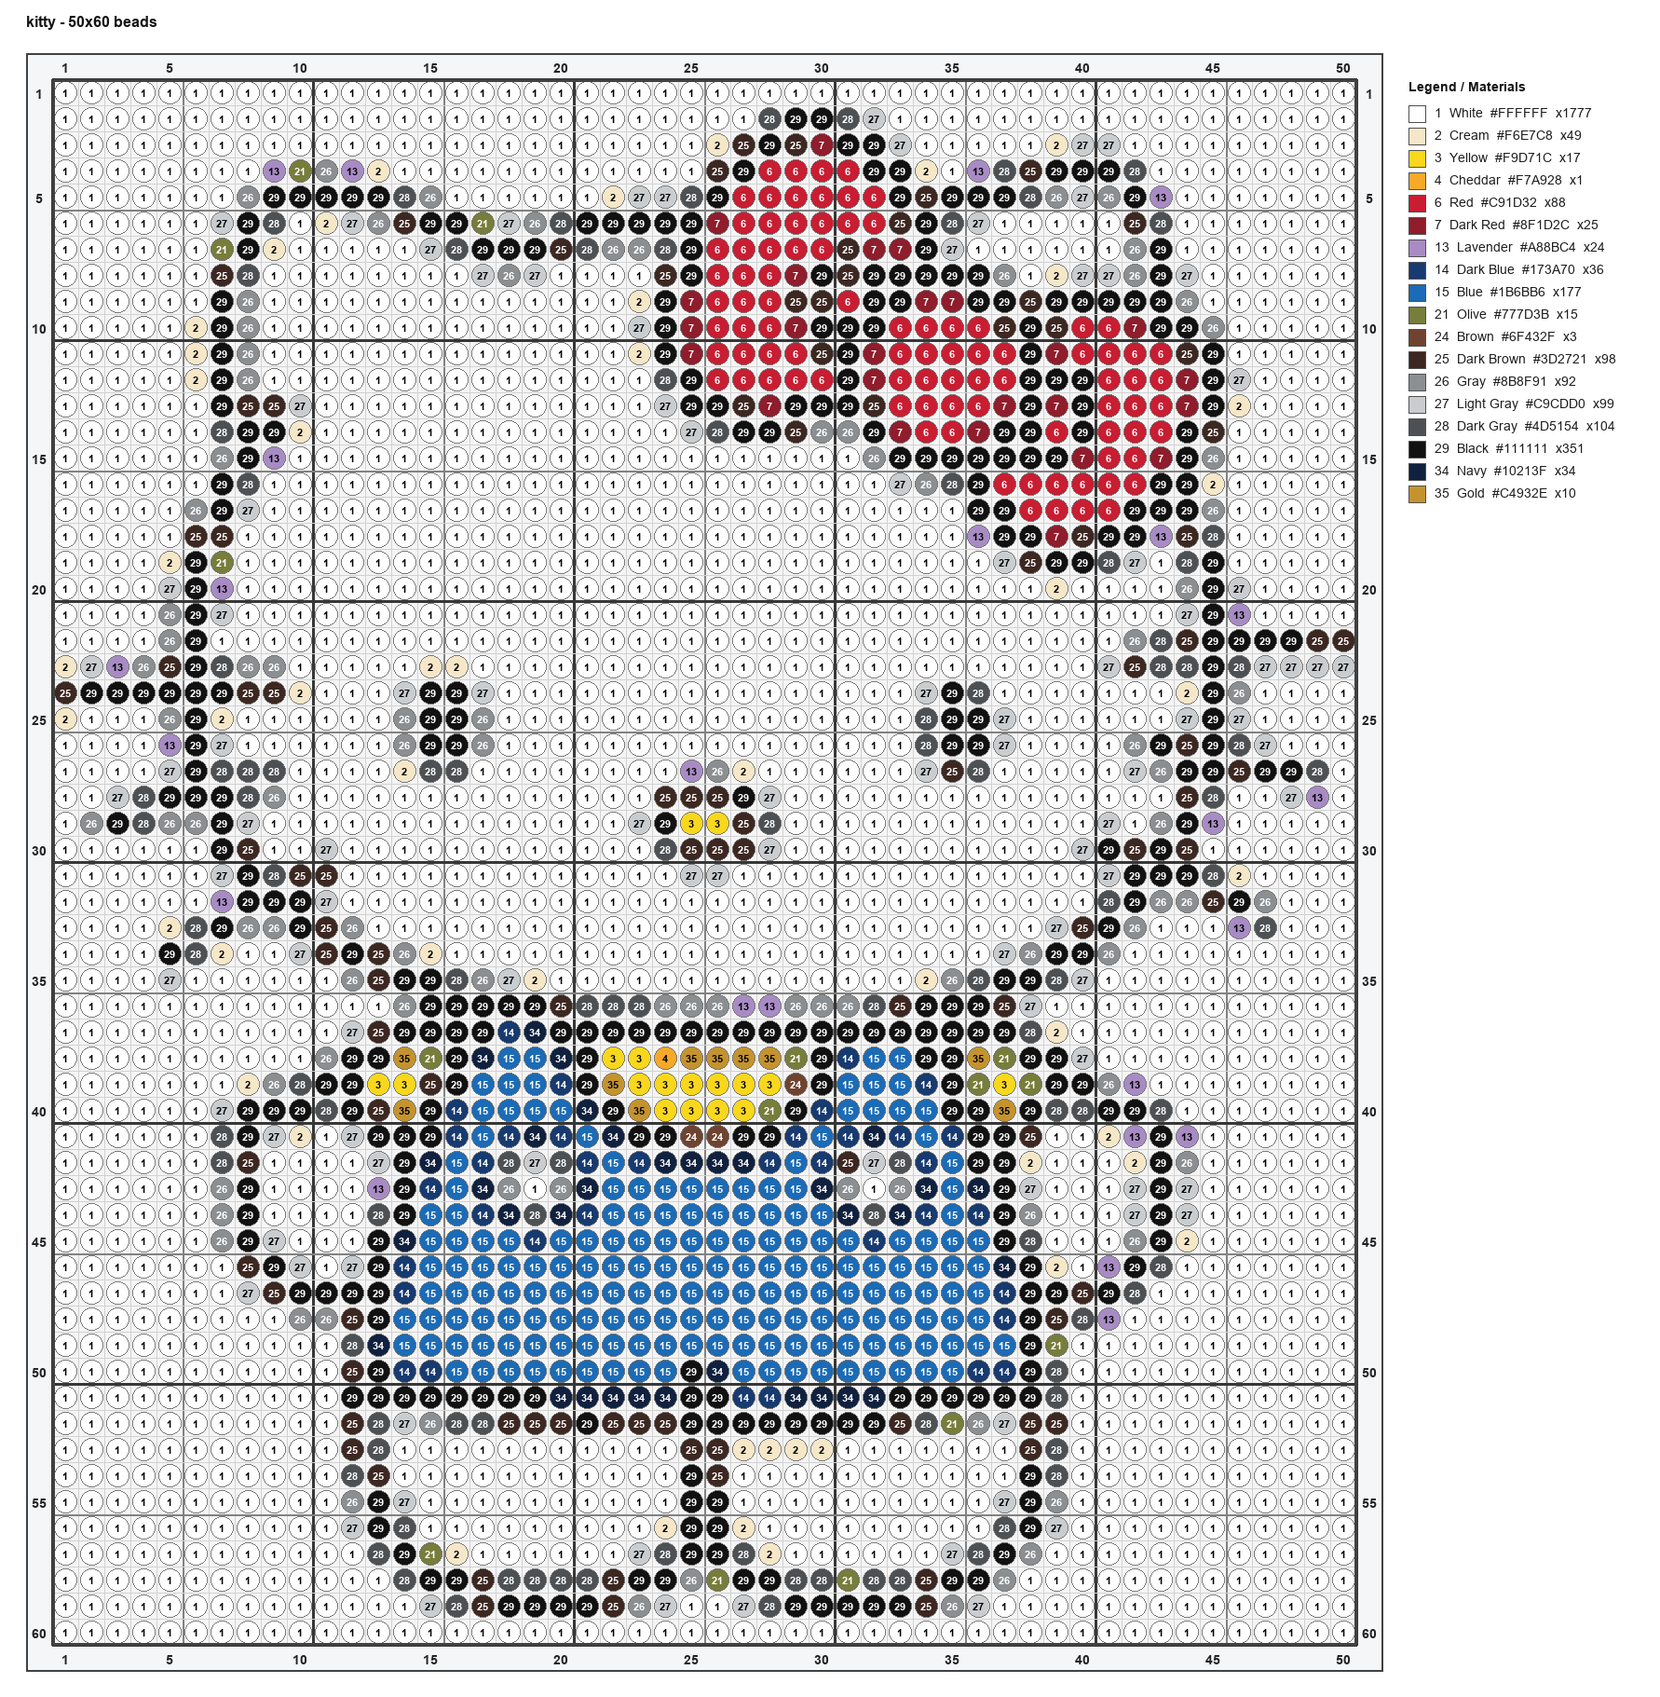
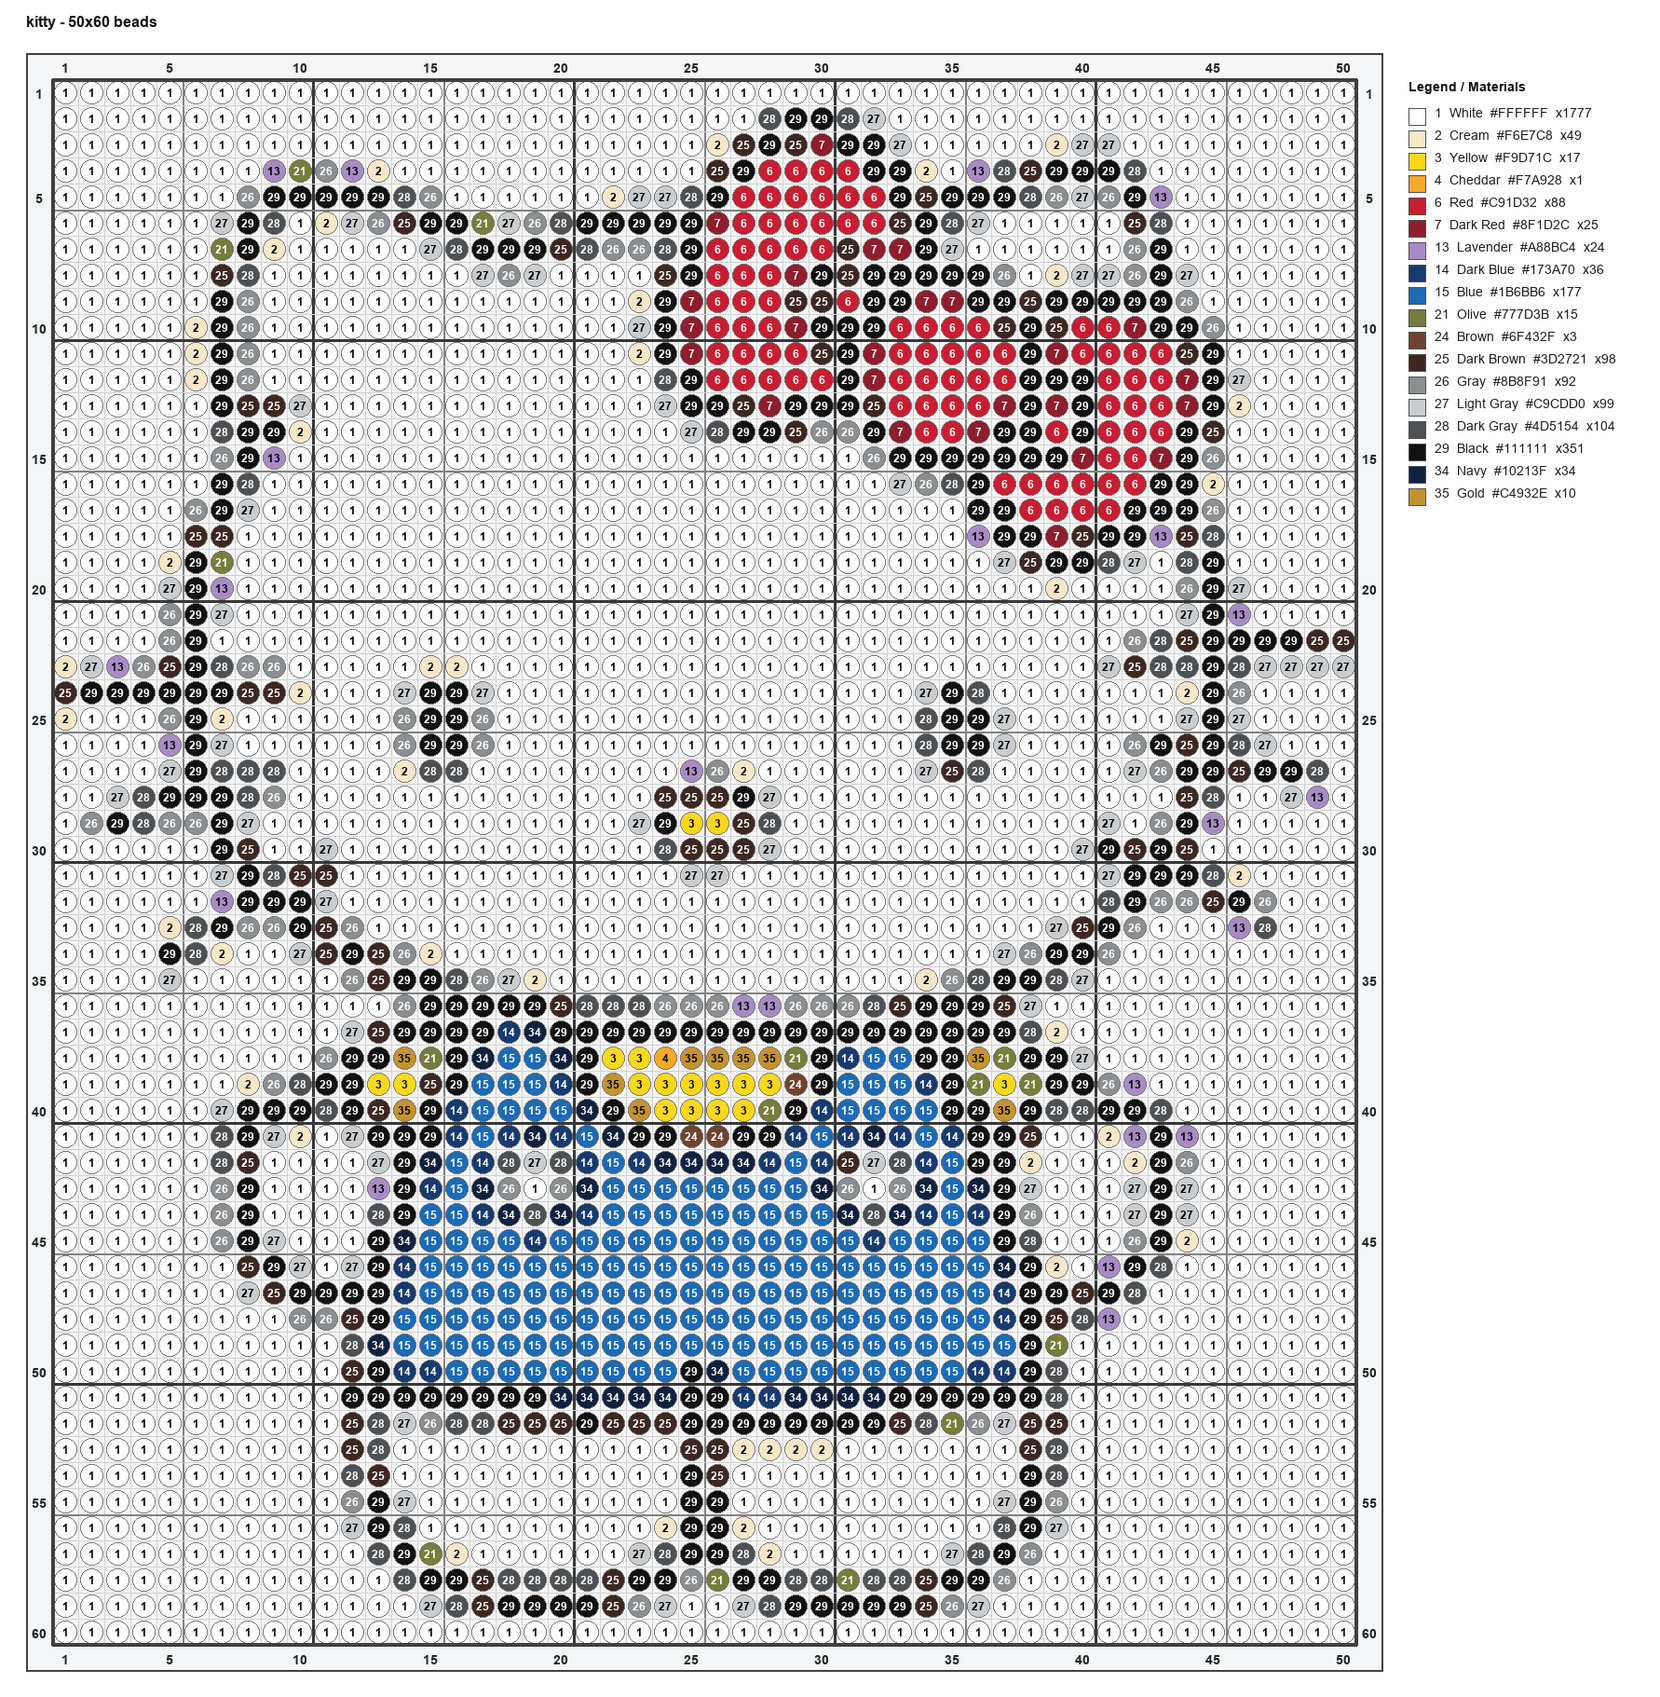
Add full Perler palette and legend controls

Changed region(s): [[0.8333, 0.2153, 0.8642, 0.2768], [0.8333, 0.123, 0.8642, 0.1845]]

diff --git a/perler_pattern.py b/perler_pattern.py
@@ -42,7 +42,7 @@ def rgb_to_hex(rgb: tuple[int, int, int]) -> str:
     return "#{:02X}{:02X}{:02X}".format(*rgb)
 
 
-def load_palette(path: Path, limit: int | None = None) -> list[PaletteColor]:
+def load_palette(path: Path) -> list[PaletteColor]:
     if not path.exists():
         raise FileNotFoundError(f"Palette file not found: {path}")
 
@@ -74,10 +74,6 @@ def load_palette(path: Path, limit: int | None = None) -> list[PaletteColor]:
 
     if not palette:
         raise ValueError(f"Palette is empty: {path}")
-    if limit is not None:
-        if limit <= 0:
-            raise ValueError("--max-colors must be greater than zero")
-        palette = palette[:limit]
     return palette
 
 
@@ -153,6 +149,14 @@ def nearest_palette_color(
     return min(palette, key=lambda color: color_distance(rgb, color.rgb))
 
 
+def limit_palette(palette: list[PaletteColor], limit: int | None) -> list[PaletteColor]:
+    if limit is None:
+        return palette
+    if limit <= 0:
+        raise ValueError("--max-colors must be greater than zero")
+    return palette[:limit]
+
+
 def resolve_empty_color_codes(
     values: list[str],
     palette: list[PaletteColor],
@@ -194,6 +198,7 @@ def pixel_to_rgb(pixel: tuple[int, ...], background: tuple[int, int, int]) -> tu
 def quantize_to_palette(
     image: Image.Image,
     palette: list[PaletteColor],
+    empty_match_palette: list[PaletteColor],
     background: tuple[int, int, int],
     transparent_alpha: int,
     allow_empty_transparent: bool,
@@ -213,10 +218,11 @@ def quantize_to_palette(
                 row.append(TRANSPARENT_CODE)
                 continue
             rgb = pixel_to_rgb(pixel, background)
-            color = nearest_palette_color(rgb, palette)
-            if color.code in empty_codes:
+            empty_match = nearest_palette_color(rgb, empty_match_palette)
+            if empty_match.code in empty_codes:
                 row.append(TRANSPARENT_CODE)
                 continue
+            color = nearest_palette_color(rgb, palette)
             row.append(color.code)
             counts[color.code] += 1
             used[color.code] = color
@@ -225,12 +231,54 @@ def quantize_to_palette(
     return matrix, used, counts
 
 
+def select_best_palette(
+    image: Image.Image,
+    palette: list[PaletteColor],
+    background: tuple[int, int, int],
+    transparent_alpha: int,
+    allow_empty_transparent: bool,
+    empty_codes: set[str],
+    limit: int | None,
+) -> list[PaletteColor]:
+    if limit is None:
+        return palette
+    if limit <= 0:
+        raise ValueError("--best-colors must be greater than zero")
+    if limit >= len(palette):
+        return palette
+
+    width, height = image.size
+    pixels = image.load()
+    counts: Counter[str] = Counter()
+    by_code = {color.code: color for color in palette}
+    for y in range(height):
+        for x in range(width):
+            pixel = pixels[x, y]
+            if allow_empty_transparent and len(pixel) == 4 and pixel[3] < transparent_alpha:
+                continue
+            rgb = pixel_to_rgb(pixel, background)
+            color = nearest_palette_color(rgb, palette)
+            if color.code in empty_codes:
+                continue
+            counts[color.code] += 1
+
+    if not counts:
+        return palette[:limit]
+    selected_codes = [code for code, _ in counts.most_common(limit)]
+    return [by_code[code] for code in selected_codes]
+
+
 def contrasting_text_color(rgb: tuple[int, int, int]) -> tuple[int, int, int]:
     luminance = (0.299 * rgb[0]) + (0.587 * rgb[1]) + (0.114 * rgb[2])
     return (0, 0, 0) if luminance > 150 else (255, 255, 255)
 
 
-def load_font(size: int, bold: bool = False) -> ImageFont.ImageFont:
+def load_font(size: int, bold: bool = False, font_path: Path | None = None) -> ImageFont.ImageFont:
+    if font_path is not None:
+        try:
+            return ImageFont.truetype(str(font_path), size)
+        except OSError:
+            pass
     candidates = [
         "/System/Library/Fonts/Supplemental/Arial Bold.ttf" if bold else "/System/Library/Fonts/Supplemental/Arial.ttf",
         "/Library/Fonts/Arial Bold.ttf" if bold else "/Library/Fonts/Arial.ttf",
@@ -298,18 +346,19 @@ def render_pattern(
     bead_shape: str,
     major_grid: int,
     super_grid: int,
+    legend_font_size: int,
+    legend_font_path: Path | None,
 ) -> None:
     rows = len(matrix)
     cols = len(matrix[0])
     margin = max(18, cell_size)
-    legend_width = 0
-    if show_legend:
-        legend_width = max(270, cell_size * 7)
 
-    code_font = load_font(max(8, min(cell_size - 4, int(cell_size * 0.42))), bold=True)
+    max_code_len = max((len(code) for code in used), default=1)
+    code_scale = 0.46 if max_code_len <= 2 else 0.34 if max_code_len <= 4 else 0.28
+    code_font = load_font(max(6, min(cell_size - 4, int(cell_size * code_scale))), bold=True)
     title_font = load_font(max(16, int(cell_size * 0.55)), bold=True)
-    legend_font = load_font(14)
-    legend_bold = load_font(14, bold=True)
+    legend_font = load_font(legend_font_size, font_path=legend_font_path)
+    legend_bold = load_font(legend_font_size, bold=True, font_path=legend_font_path)
     coord_font = load_font(max(9, min(16, int(cell_size * 0.5))), bold=True)
 
     scratch = Image.new("RGB", (1, 1), "white")
@@ -327,9 +376,21 @@ def render_pattern(
     grid_top = frame_top + coord_band
     frame_width = grid_width + (coord_band * 2)
     frame_height = grid_height + (coord_band * 2)
-    legend_header_height = 28 if show_legend else 0
-    legend_row_height = 24
-    legend_height = legend_header_height + (len(counts) * legend_row_height)
+    legend_swatch_size = max(18, legend_font_size + 4)
+    legend_row_height = max(24, legend_swatch_size + 6)
+    legend_title = "Legend / Materials"
+    legend_labels = []
+    for code, count in sorted(counts.items(), key=lambda item: natural_sort_key(item[0])):
+        color = used[code]
+        legend_labels.append((color, f"{code}  {color.name}  {color.hex}  x{count}"))
+    legend_header_height = legend_row_height + 4 if show_legend else 0
+    legend_height = legend_header_height + (len(legend_labels) * legend_row_height)
+    legend_width = 0
+    if show_legend:
+        legend_text_width = text_size(scratch_draw, legend_title, legend_bold)[0]
+        for _, label in legend_labels:
+            legend_text_width = max(legend_text_width, text_size(scratch_draw, label, legend_font)[0] + legend_swatch_size + 12)
+        legend_width = max(270, cell_size * 7, legend_text_width + 12)
     image_width = frame_width + (margin * 2) + legend_width
     image_height = max(frame_height, legend_height) + (margin * 2) + title_area
     output = Image.new("RGB", (image_width, image_height), "white")
@@ -446,14 +507,17 @@ def render_pattern(
     if show_legend:
         legend_left = frame_left + frame_width + margin
         y = grid_top
-        draw.text((legend_left, y), "Legend / Materials", fill=(20, 20, 20), font=legend_bold)
-        y += 28
-        for code, count in sorted(counts.items(), key=lambda item: natural_sort_key(item[0])):
-            color = used[code]
-            draw.rectangle((legend_left, y, legend_left + 18, y + 18), fill=color.rgb, outline=(80, 80, 80))
-            label = f"{code}  {color.name}  {color.hex}  x{count}"
-            draw.text((legend_left + 28, y), label, fill=(30, 30, 30), font=legend_font)
-            y += 24
+        draw.text((legend_left, y), legend_title, fill=(20, 20, 20), font=legend_bold)
+        y += legend_header_height
+        for color, label in legend_labels:
+            swatch_top = y + max(0, (legend_row_height - legend_swatch_size) // 2)
+            draw.rectangle(
+                (legend_left, swatch_top, legend_left + legend_swatch_size, swatch_top + legend_swatch_size),
+                fill=color.rgb,
+                outline=(80, 80, 80),
+            )
+            draw.text((legend_left + legend_swatch_size + 10, y), label, fill=(30, 30, 30), font=legend_font)
+            y += legend_row_height
 
     output.save(output_path)
 
@@ -561,7 +625,13 @@ def build_arg_parser() -> argparse.ArgumentParser:
         default=DEFAULT_PALETTE,
         help="CSV or JSON palette. CSV columns: code,name,hex or code,name,r,g,b",
     )
-    parser.add_argument("--max-colors", type=int, default=None, help="Use only the first N palette colors")
+    parser.add_argument("--max-colors", type=int, default=None, help="Use only the first N palette colors before matching")
+    parser.add_argument(
+        "--best-colors",
+        type=int,
+        default=None,
+        help="Analyze the image and use only the N most frequently matched palette colors",
+    )
     parser.add_argument("--cell-size", type=int, default=28, help="Pattern cell size in pixels")
     parser.add_argument("--major-grid", type=int, default=5, help="Draw heavier grid lines and coordinate labels every N cells")
     parser.add_argument("--super-grid", type=int, default=10, help="Draw the heaviest grid lines every N cells")
@@ -571,6 +641,8 @@ def build_arg_parser() -> argparse.ArgumentParser:
         default="circle",
         help="Rendered bead unit shape",
     )
+    parser.add_argument("--legend-font-size", type=int, default=14, help="Legend font size in pixels")
+    parser.add_argument("--legend-font", type=Path, default=None, help="Path to a TrueType/OpenType font file for the legend")
     parser.add_argument(
         "--fit",
         choices=["contain", "cover", "stretch"],
@@ -612,6 +684,10 @@ def main(argv: Iterable[str] | None = None) -> int:
 
     if args.cell_size < 12:
         parser.error("--cell-size must be at least 12 so color codes remain readable")
+    if args.legend_font_size < 8:
+        parser.error("--legend-font-size must be at least 8")
+    if args.legend_font is not None and not args.legend_font.exists():
+        parser.error(f"--legend-font does not exist: {args.legend_font}")
     if args.major_grid < 0:
         parser.error("--major-grid must be zero or greater")
     if args.super_grid < 0:
@@ -625,7 +701,11 @@ def main(argv: Iterable[str] | None = None) -> int:
     with Image.open(args.image) as original:
         image_size = original.size
     grid_size = resolve_grid_size(args.size, image_size)
-    palette = load_palette(args.palette, args.max_colors)
+    source_palette = load_palette(args.palette)
+    try:
+        palette = limit_palette(source_palette, args.max_colors)
+    except ValueError as exc:
+        parser.error(str(exc))
     try:
         empty_codes = resolve_empty_color_codes(
             args.empty_color,
@@ -636,9 +716,23 @@ def main(argv: Iterable[str] | None = None) -> int:
     except ValueError as exc:
         parser.error(str(exc))
     prepared = prepare_image(args.image, grid_size, args.fit, background, args.allow_empty_transparent)
+    empty_match_palette = palette
+    try:
+        palette = select_best_palette(
+            prepared,
+            palette,
+            background,
+            args.transparent_alpha,
+            args.allow_empty_transparent,
+            empty_codes,
+            args.best_colors,
+        )
+    except ValueError as exc:
+        parser.error(str(exc))
     matrix, used, counts = quantize_to_palette(
         prepared,
         palette,
+        empty_match_palette,
         background,
         args.transparent_alpha,
         args.allow_empty_transparent,
@@ -666,6 +760,8 @@ def main(argv: Iterable[str] | None = None) -> int:
         bead_shape=args.bead_shape,
         major_grid=args.major_grid,
         super_grid=args.super_grid,
+        legend_font_size=args.legend_font_size,
+        legend_font_path=args.legend_font,
     )
     render_preview(matrix, used, preview_path, max(8, min(args.cell_size, 24)), args.bead_shape)
     write_matrix_csv(matrix, matrix_path)

diff --git a/README.md b/README.md
@@ -32,6 +32,7 @@ Generate numbered Perler Beads pattern sheets from reference images. The tool re
 |-- requirements.txt               # pip dependency list
 |-- .github/workflows/ci.yml       # GitHub Actions smoke test
 |-- LICENSE                        # MIT License
+|-- THIRD_PARTY_NOTICES.md         # Data attribution notices
 `-- README.md
 ```
 
@@ -100,10 +101,22 @@ Use only the first 12 colors from the palette:
 python perler_pattern.py input.png --size 80x60 --max-colors 12
 ```
 
+Analyze the image and use only the 24 most relevant colors from a full palette:
+
+```bash
+python perler_pattern.py input.png --size 80x60 --palette palettes/perler_full.csv --best-colors 24
+```
+
 Use a different built-in palette:
 
 ```bash
 python perler_pattern.py input.png --size 80x60 --palette palettes/pixel_art_16.csv
+```
+
+Adjust the material legend font:
+
+```bash
+python perler_pattern.py input.png --size 80x60 --legend-font-size 18 --legend-font /path/to/font.ttf
 ```
 
 Skip beads for the background color:
@@ -131,8 +144,12 @@ python perler_pattern.py input.png --size 80x60 --empty-color 1 --empty-color "#
 - `--super-grid 10`: draw the heaviest guide lines every 10 cells.
 - `--bead-shape circle`: render pattern and preview bead units as circles.
 - `--bead-shape square`: render pattern and preview bead units as squares.
+- `--legend-font-size 14`: set the material legend font size.
+- `--legend-font`: use a TrueType/OpenType font file for the material legend.
 - `--palette`: use a custom palette file.
-- `--max-colors`: use only the first N colors from the palette.
+- `--max-colors`: use only the first N colors from the palette before matching.
+- `--best-colors`: analyze the image and use only the N most frequently matched palette colors.
+- If both are set, `--max-colors` narrows the palette first, then `--best-colors` selects from that subset.
 - `--background`: composite transparent pixels and `contain` padding onto this color before palette matching, unless `--allow-empty-transparent` is set.
 - `--allow-empty-transparent`: let transparent pixels become empty cells, including transparent padding created by `--fit contain`. By default, patterns are dense and every cell is a bead.
 - `--transparent-alpha`: alpha threshold used with `--allow-empty-transparent`.
@@ -167,6 +184,7 @@ For transparent PNG/WebP artwork, `--allow-empty-transparent` is usually the cle
 Built-in palettes:
 
 - `palettes/starter_perler.csv`: broad starter palette for general use.
+- `palettes/perler_full.csv`: 103-color Perler palette derived from the MIT-licensed `maxcleme/beadcolors` data. It uses short `P001`-style chart codes and keeps the original Perler reference code in the color name and `source_code` column.
 - `palettes/classic_bright.csv`: saturated high-contrast colors.
 - `palettes/soft_pastel.csv`: lighter pastel colors for gentle illustrations.
 - `palettes/pixel_art_16.csv`: compact 16-color palette for retro pixel-art patterns.
@@ -207,5 +225,8 @@ This project is licensed under the MIT License. See [LICENSE](LICENSE).
 
 ## Notes
 
-- The included palettes are practical starter palettes, not official complete color charts from any manufacturer.
+- Perler sells many bead colors on its official shop-by-color page, but does not publish this repository's `code,name,hex` CSV format as a single official standard.
+- Hama publishes official color charts, but color availability differs by bead size.
+- `palettes/perler_full.csv` is derived from community-maintained `beadcolors` RGB data. See `THIRD_PARTY_NOTICES.md`.
+- The smaller palettes are practical starter palettes, not official complete color charts from any manufacturer.
 - `examples/kitty.png` is included as an example input image for quick CLI testing.

diff --git a/THIRD_PARTY_NOTICES.md b/THIRD_PARTY_NOTICES.md
@@ -1,0 +1,37 @@
+# Third-Party Notices
+
+## beadcolors
+
+`palettes/perler_full.csv` is derived from the Perler raw CSV in the
+`maxcleme/beadcolors` project:
+
+- Repository: https://github.com/maxcleme/beadcolors
+- Source file: https://github.com/maxcleme/beadcolors/blob/master/raw/perler.csv
+- License: MIT
+
+Copyright (c) 2020 maxcleme
+
+The original CSV format is `[reference_code, name, rgb_r, rgb_g, rgb_b, contributor]`.
+This repository converts it to `code,name,hex,source_code` for use by
+`perler_pattern.py`, with short `P001`-style chart codes for readable pattern
+cells.
+
+MIT License text for beadcolors:
+
+Permission is hereby granted, free of charge, to any person obtaining a copy
+of this software and associated documentation files (the "Software"), to deal
+in the Software without restriction, including without limitation the rights
+to use, copy, modify, merge, publish, distribute, sublicense, and/or sell
+copies of the Software, and to permit persons to whom the Software is
+furnished to do so, subject to the following conditions:
+
+The above copyright notice and this permission notice shall be included in all
+copies or substantial portions of the Software.
+
+THE SOFTWARE IS PROVIDED "AS IS", WITHOUT WARRANTY OF ANY KIND, EXPRESS OR
+IMPLIED, INCLUDING BUT NOT LIMITED TO THE WARRANTIES OF MERCHANTABILITY,
+FITNESS FOR A PARTICULAR PURPOSE AND NONINFRINGEMENT. IN NO EVENT SHALL THE
+AUTHORS OR COPYRIGHT HOLDERS BE LIABLE FOR ANY CLAIM, DAMAGES OR OTHER
+LIABILITY, WHETHER IN AN ACTION OF CONTRACT, TORT OR OTHERWISE, ARISING FROM,
+OUT OF OR IN CONNECTION WITH THE SOFTWARE OR THE USE OR OTHER DEALINGS IN THE
+SOFTWARE.
